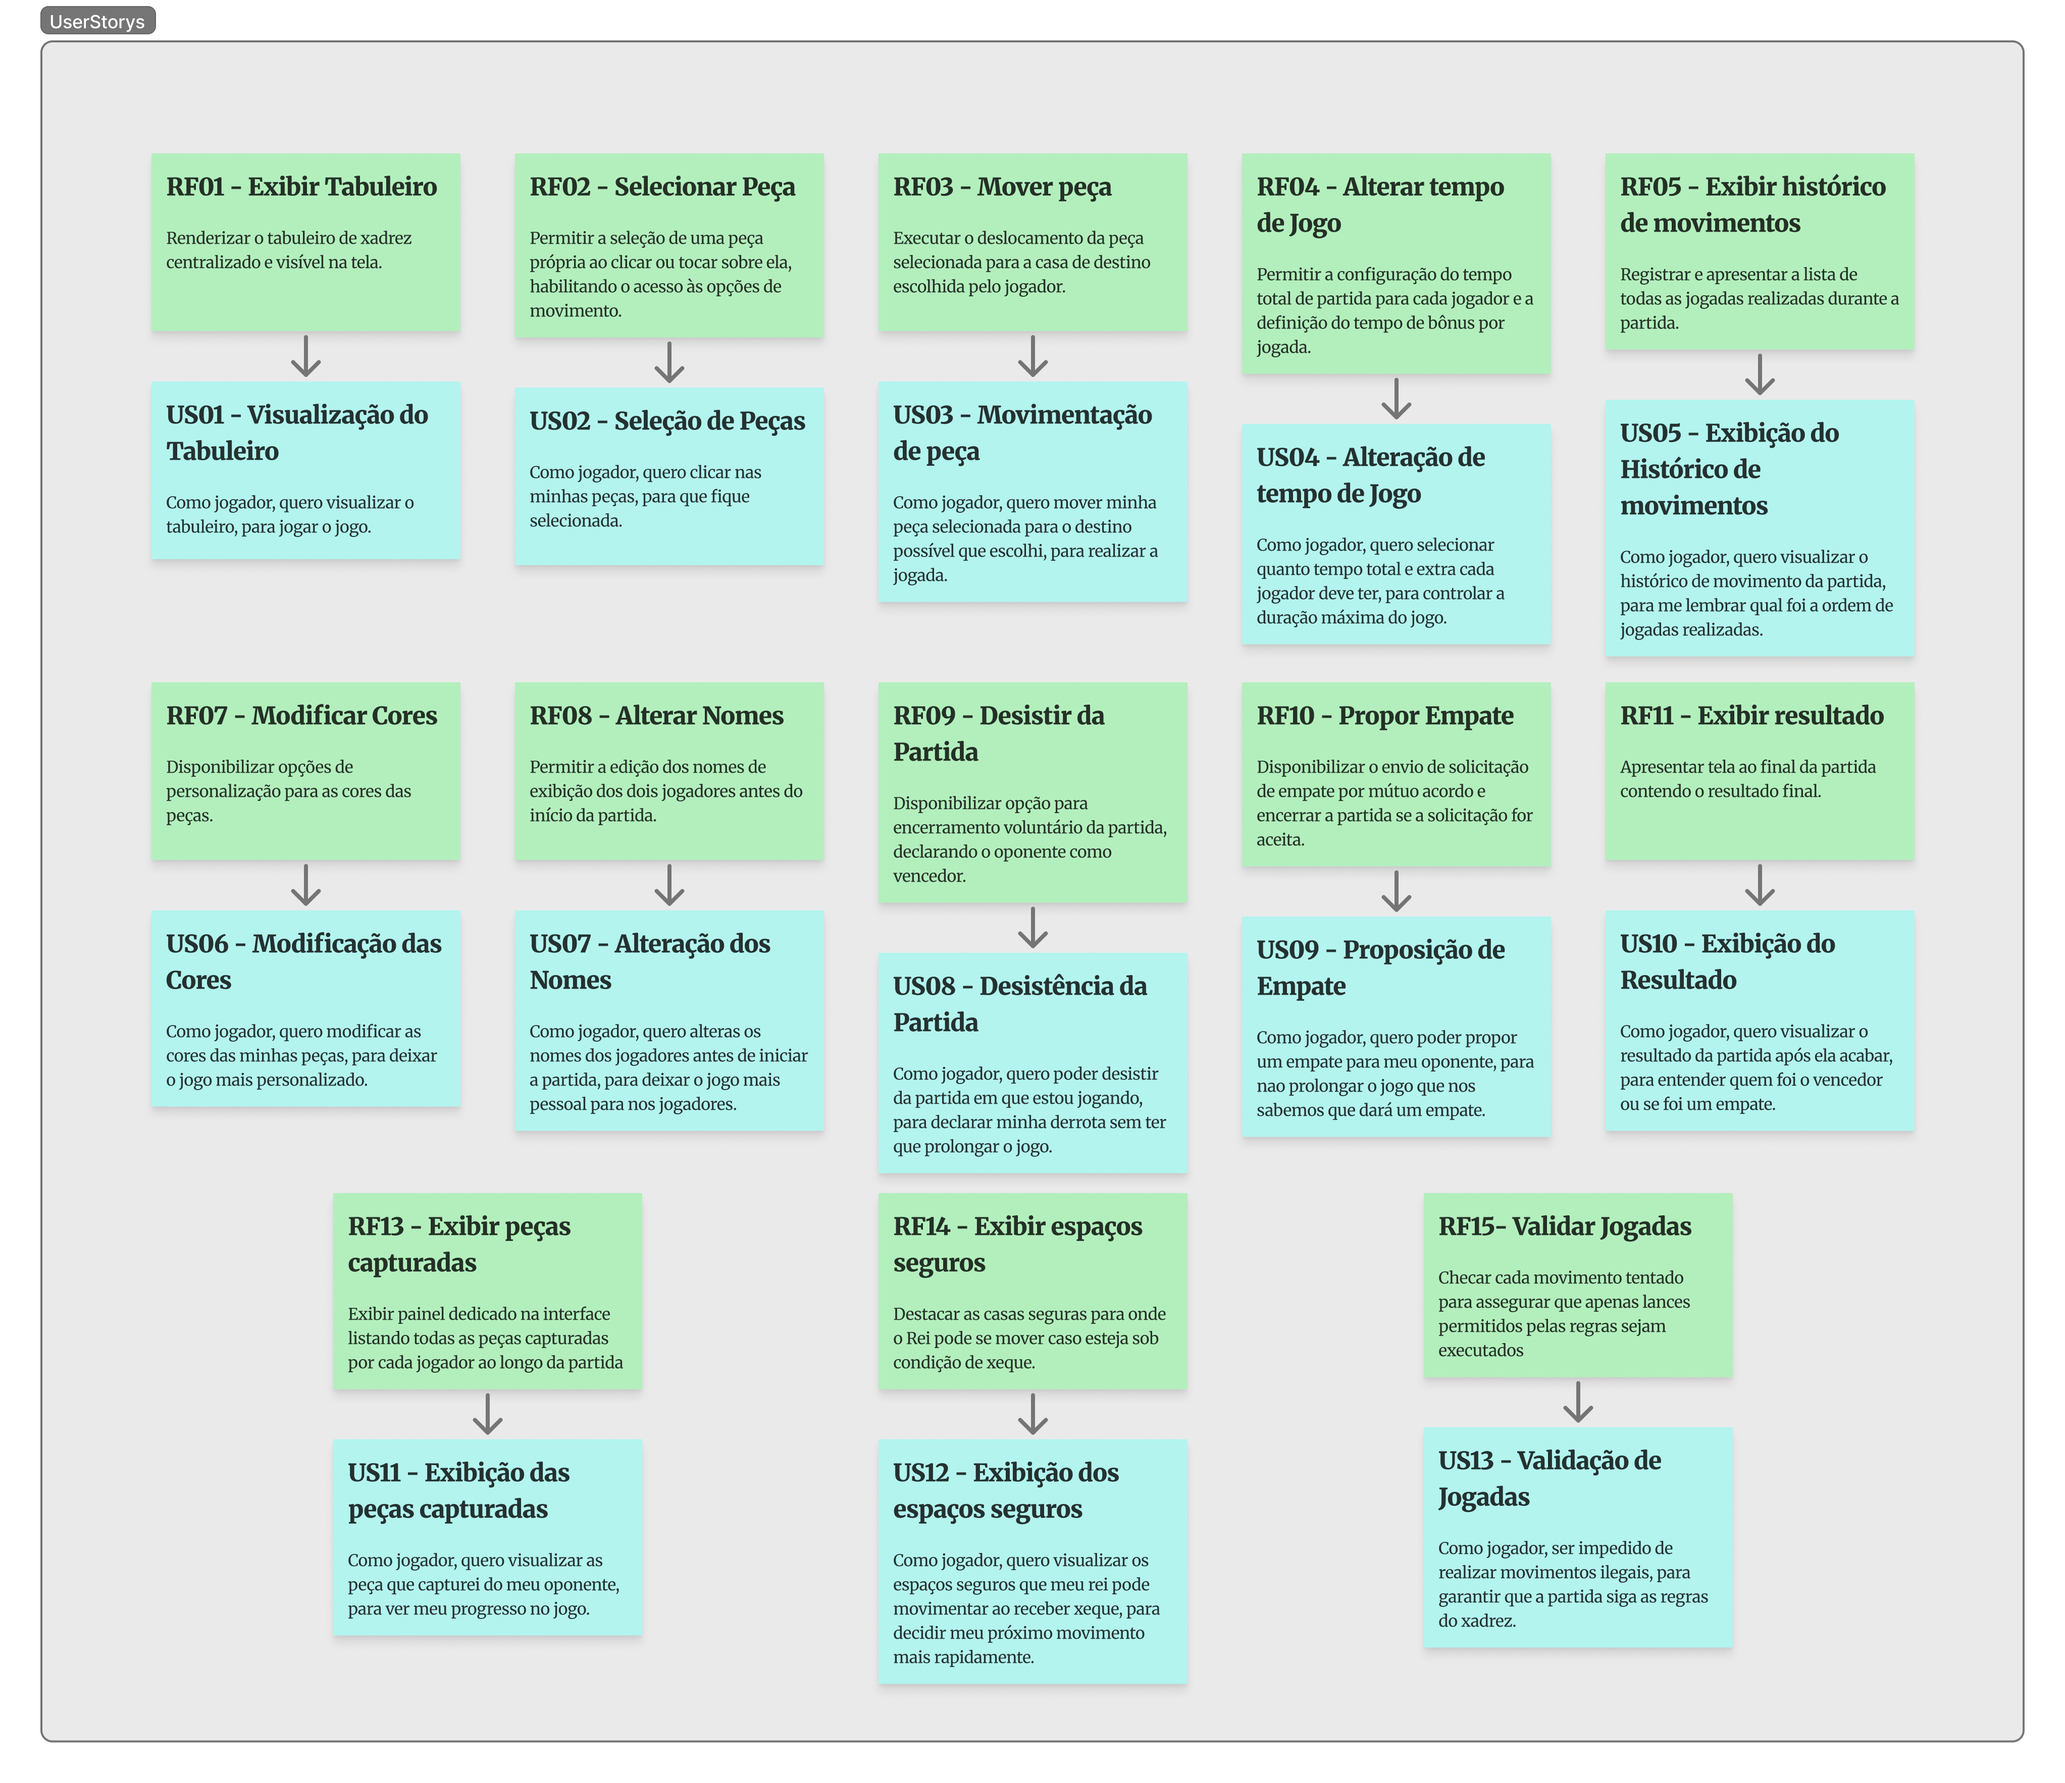
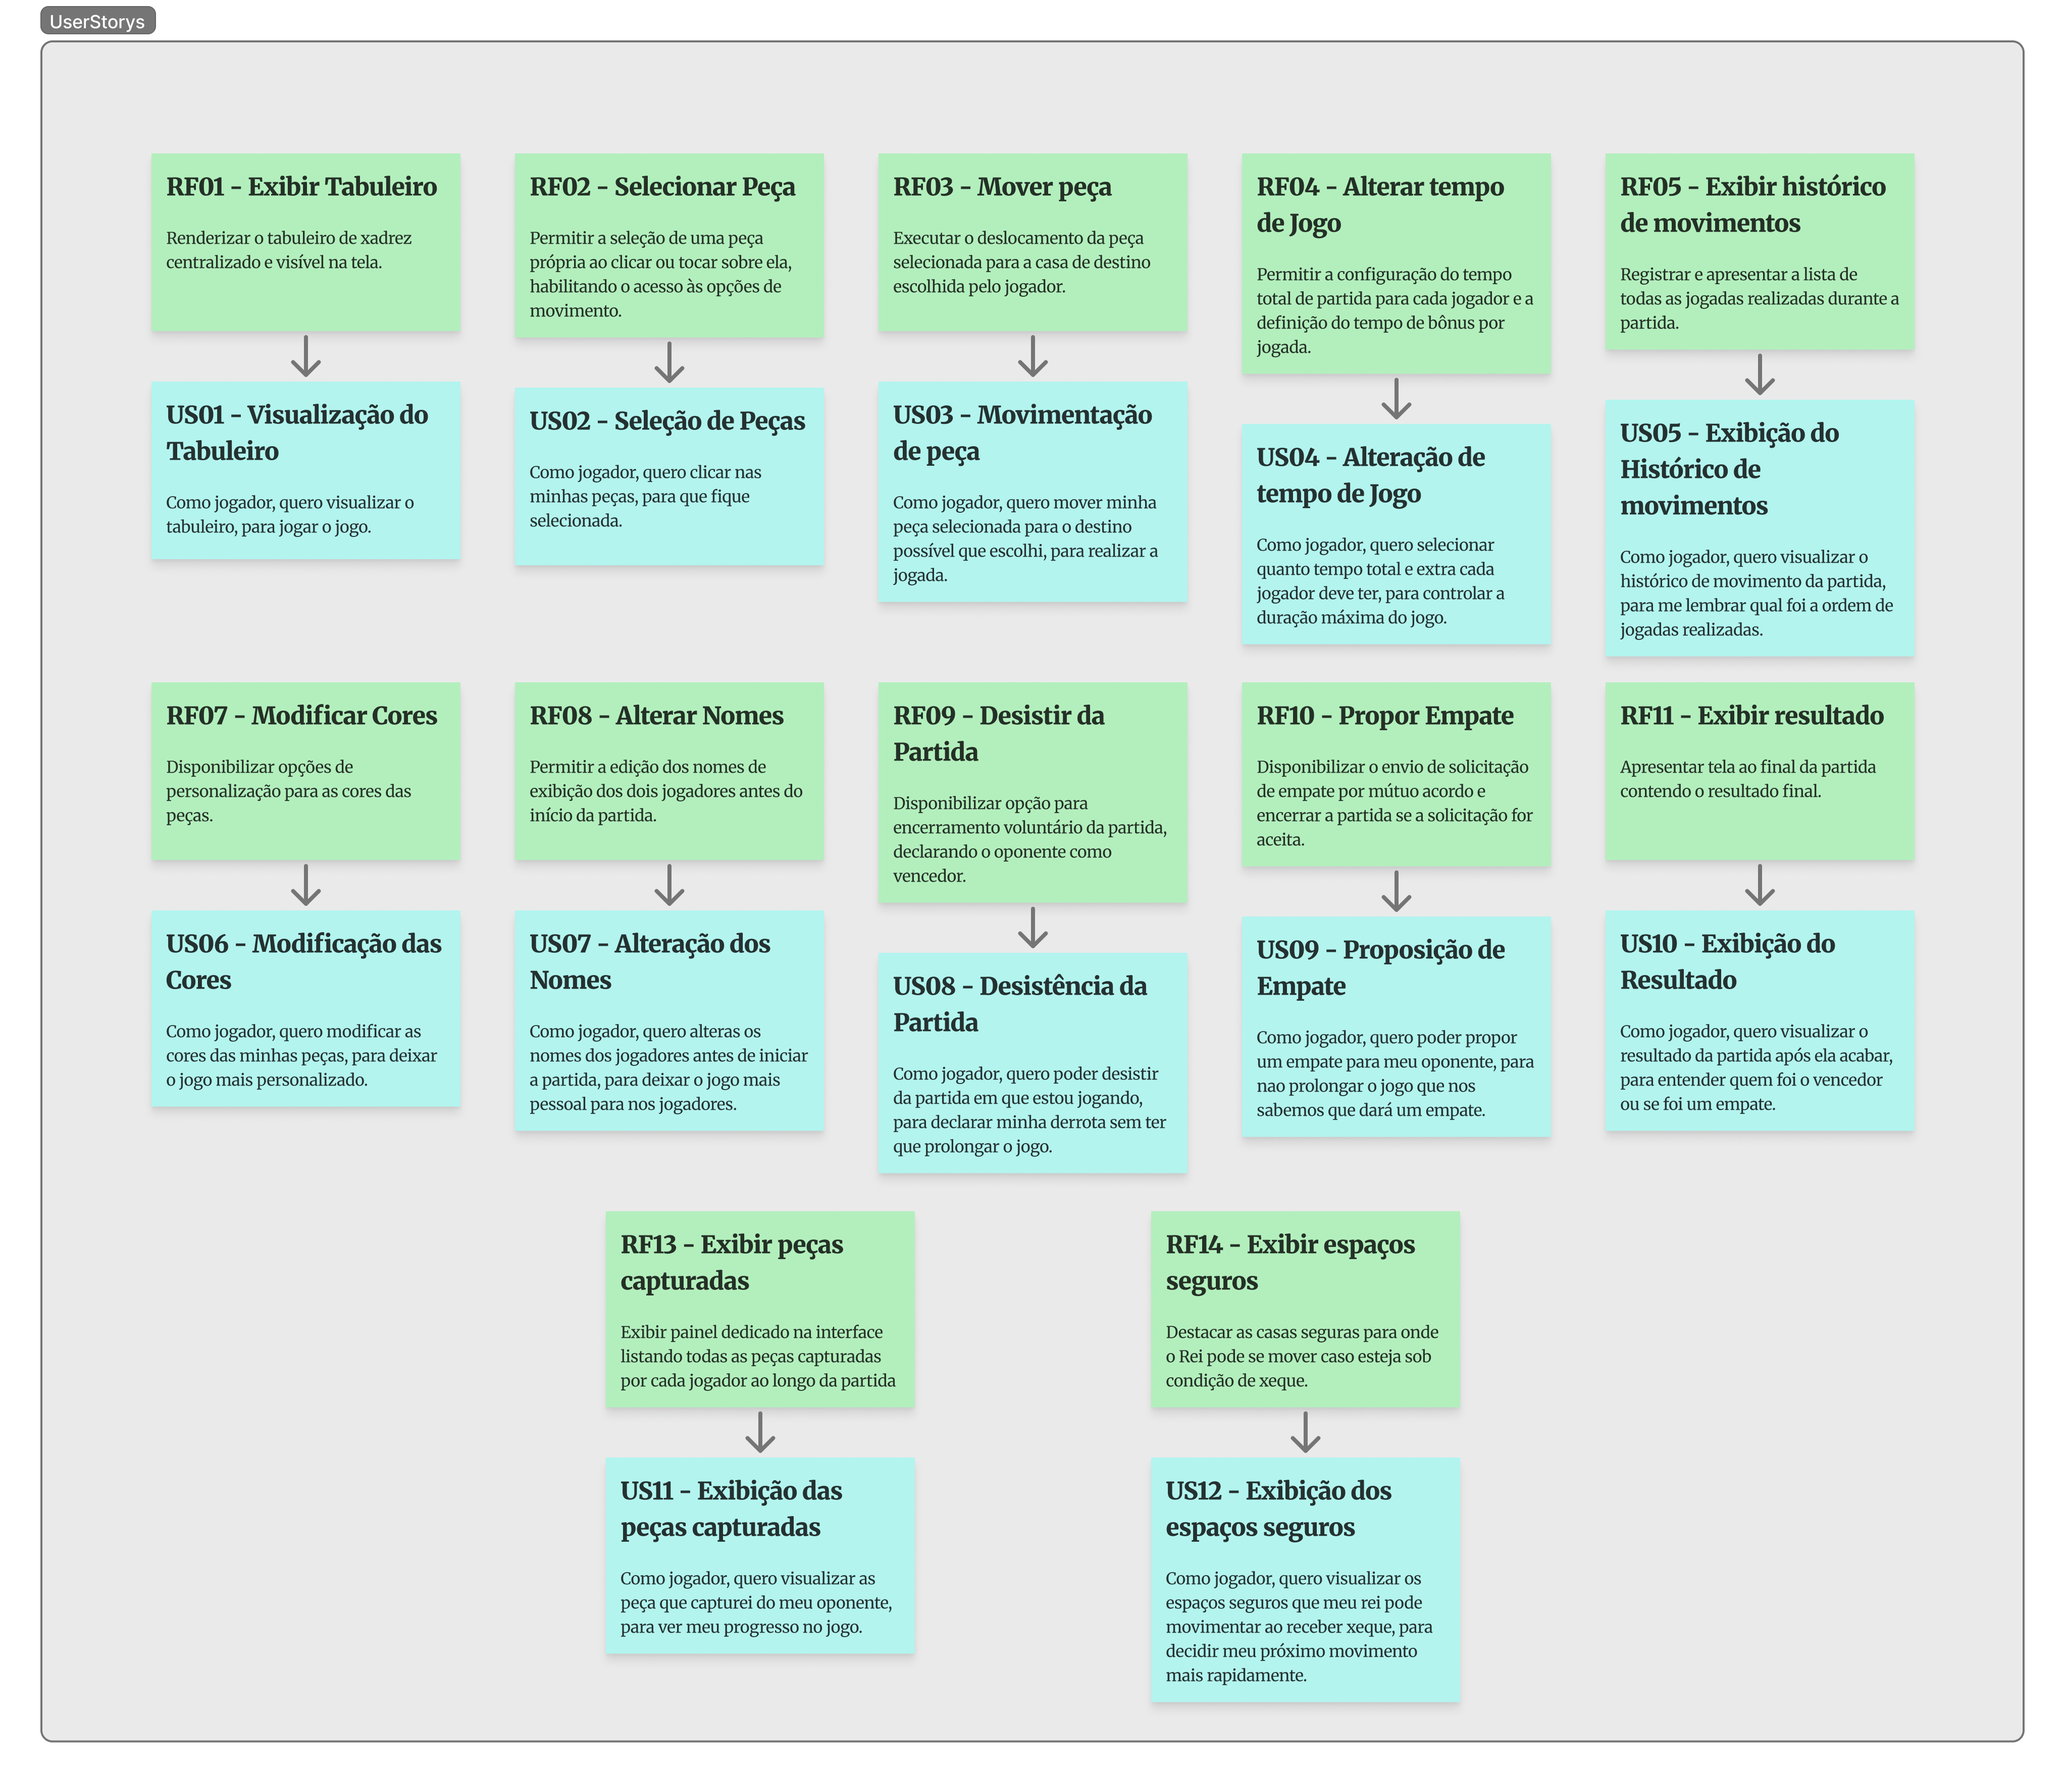
Remocao do RF15

Changed region(s): [[0.1553, 0.6538, 0.8384, 0.9652]]

diff --git a/docs/backlog/backlog.md b/docs/backlog/backlog.md
@@ -13,7 +13,6 @@
 | **US09** | Exibição do Resultado | Como jogador, quero visualizar o resultado da partida após ela acabar, para entender quem foi o vencedor ou se foi um empate. | RF10 |
 | **US10** | Exibição das peças capturadas | Como jogador, quero visualizar as peças que capturei do meu oponente, para ver meu progresso no jogo. | RF12 |
 | **US11** | Exibição dos espaços seguros | Como jogador, quero visualizar os espaços seguros que meu rei pode movimentar ao receber xeque, para decidir meu próximo movimento mais rapidamente. | RF13 |
-| **US12** | Validação de Jogadas | Como jogador, ser impedido de realizar movimentos ilegais, para garantir que a partida siga as regras do xadrez. | RF14 |
 
 ## Figma
 

diff --git a/docs/requisitos/requisitos.md b/docs/requisitos/requisitos.md
@@ -18,7 +18,6 @@ A tabela a seguir apresenta os 16 Requisitos Funcionais do sistema, organizados 
 | **RF12** | Editar Tabuleiro | Disponibilizar modo de jogo customizado para posicionar peças livremente. |
 | **RF13** | Exibir Peças Capturadas | Exibir painel dedicado na interface listando todas as peças capturadas por cada jogador ao longo da partida. |
 | **RF14** | Exibir Espaços Seguros | Destacar as casas seguras para onde o Rei pode se mover caso esteja sob condição de xeque. |
-| **RF15** | Validar Jogadas | Checar cada movimento tentado para assegurar que apenas lances permitidos pelas regras sejam executados. |
 
 ## Figma
 

diff --git a/docs/requisitos/mvp.md b/docs/requisitos/mvp.md
@@ -14,7 +14,6 @@
 | **RF11** | Exibir Resultado | Must Have | Apresentar tela ao final da partida contendo o resultado final. |
 | **RF13** | Exibir Peças Capturadas | Should Have | Exibir painel dedicado na interface listando todas as peças capturadas por cada jogador ao longo da partida. |
 | **RF14** | Exibir Espaços Seguros | Should Have | Destacar as casas seguras para onde o Rei pode se mover caso esteja sob condição de xeque. |
-| **RF15** | Validar Jogadas | Must Have | Checar cada movimento tentado para assegurar que apenas lances permitidos pelas regras sejam executados. |
 
 # Figma
 

diff --git a/docs/requisitos/moscow.md b/docs/requisitos/moscow.md
@@ -10,7 +10,6 @@ A matriz MoSCoW abaixo prioriza as funcionalidades do sistema com base nos Requi
 | **RF01** | Exibir Tabuleiro |
 | **RF02** | Selecionar Peça |
 | **RF03** | Mover Peça | 
-| **RF15** | Validar Jogadas |
 | **RF09** | Desistir da Partida |
 | **RF10** | Propor Empate |
 | **RF11** | Exibir Resultado | 

diff --git a/docs/requisitos/valorEsforco.md b/docs/requisitos/valorEsforco.md
@@ -27,7 +27,6 @@ A distribuição dos 16 Requisitos Funcionais do escopo verde está organizadas 
 | **RF05** | Exibir Histórico de Movimentos |
 | **RF13** | Exibir Peças Capturadas |
 | **RF14** | Exibir Espaços Seguros |
-| **RF15** | Validar Jogadas |
 
 ---
 
